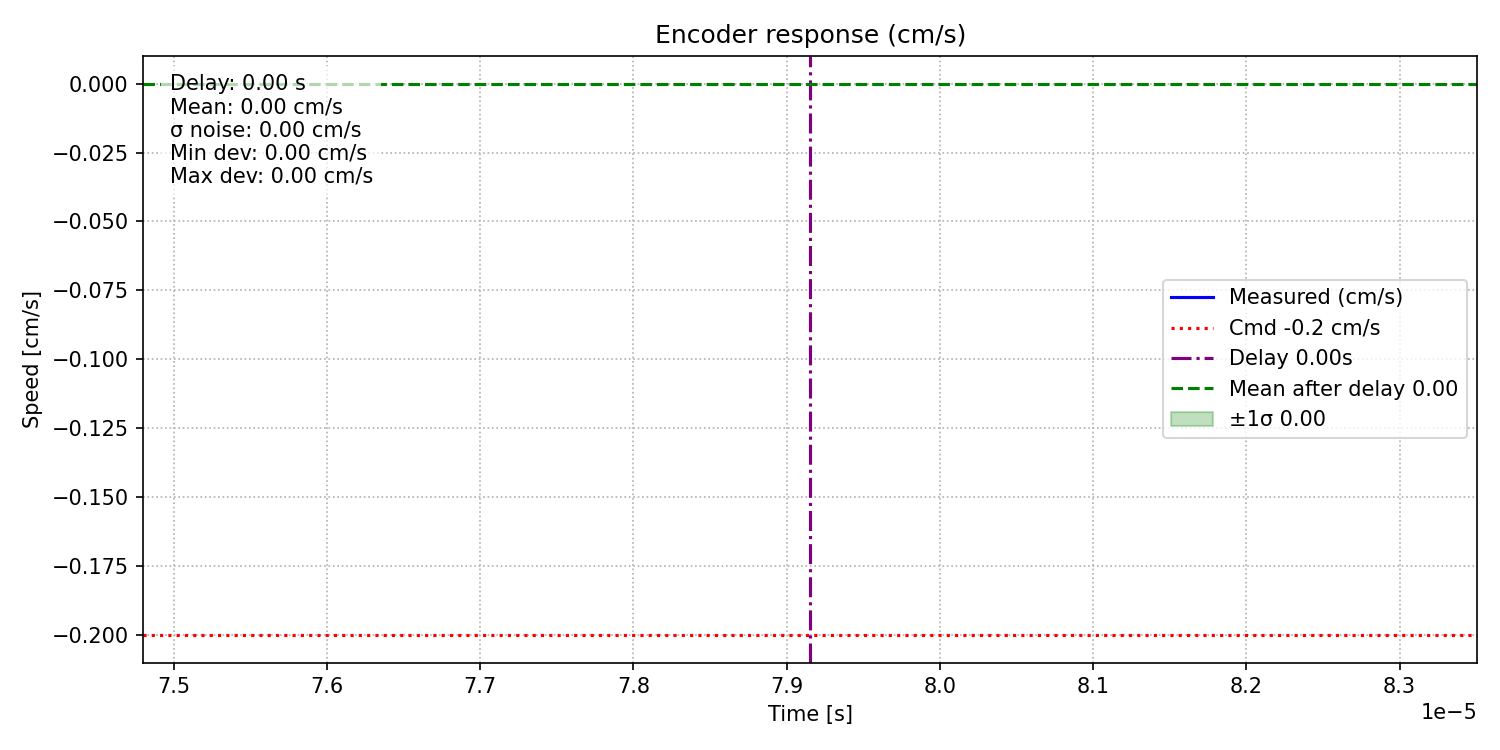
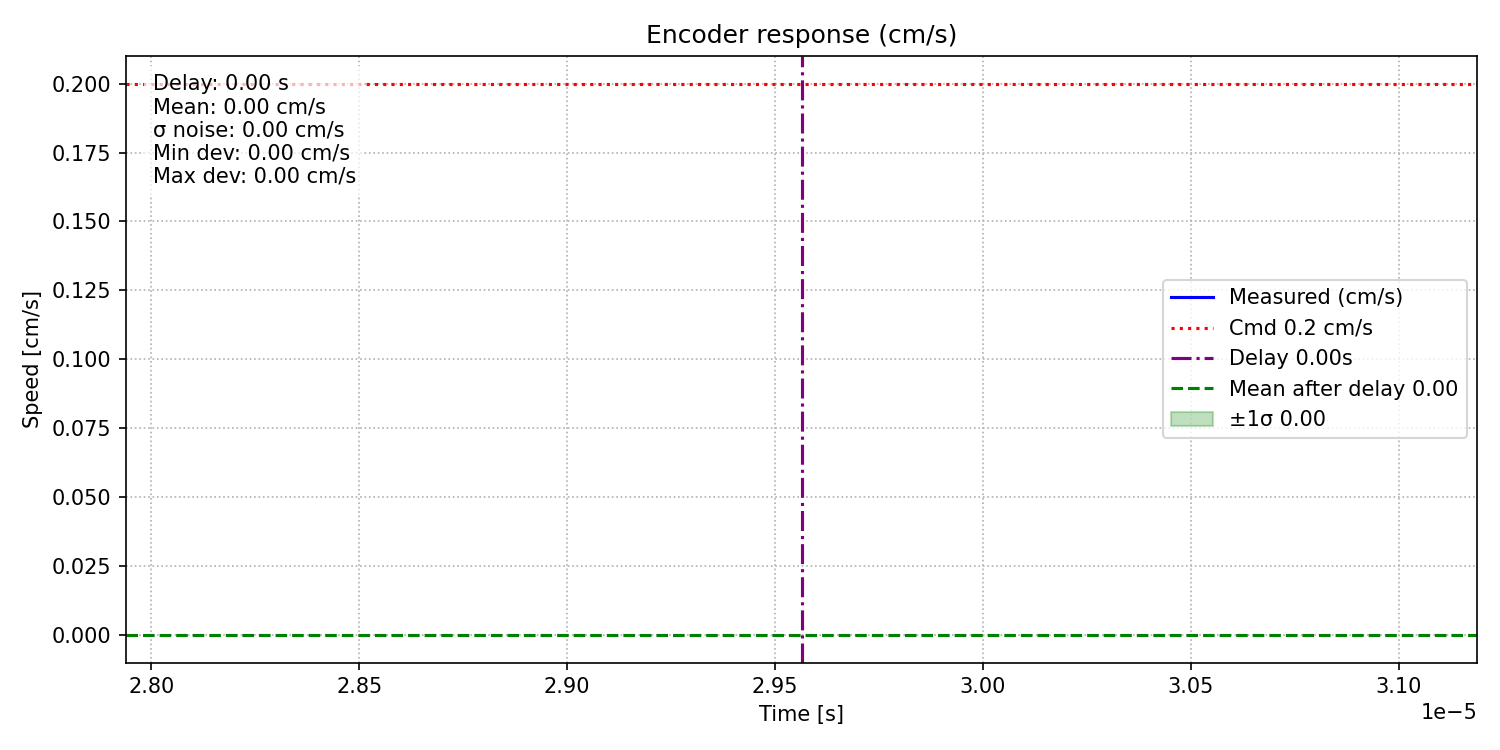
realsense calibration

diff --git a/Embedded_Platform/Embedded_2024/scripts/encoder_noise_test_pwm.py b/Embedded_Platform/Embedded_2024/scripts/encoder_noise_test_pwm.py
@@ -189,10 +189,10 @@ def save_plot(times: list[float], speeds: list[float], cmd_speed: float, delay: 
 
 def main() -> None:
     ap = argparse.ArgumentParser(description="Constant‑speed noise test with delay estimation (cm/s)")
-    ap.add_argument("--cmd", type=float, default=0, help="Commanded speed [cm/s]")
+    ap.add_argument("--cmd", type=float, default=20, help="Commanded speed [cm/s]")
     ap.add_argument("--pwm", type=float, default=-1, help="Commanded pwm")
     ap.add_argument("--dur", type=float, default=12, help="Duration [s]")
-    ap.add_argument("--steer", type=float, default=-10, help="Commanded steering in deg")
+    ap.add_argument("--steer", type=float, default=20, help="Commanded steering in deg")
     ap.add_argument("--csv", type=Path, help="Save raw data to CSV")
     ap.add_argument("--port", default="/dev/ttyACM0")
     ap.add_argument("--baud", type=int, default=115200)

diff --git a/src/utils/include/utils/constants.h b/src/utils/include/utils/constants.h
@@ -303,8 +303,8 @@ namespace VehicleConstants {
         322.97223,  // cx
         244.39398   // cy
     };
-    static constexpr std::array<double, 6> REALSENSE_TF = {-0.08255 - 0.0042, -0.032, 0.2615, 0, 3.75*M_PI/180.0, 0}; // x, y, z, roll, pitch, yaw
-    static constexpr std::array<double, 6> REALSENSE_TF_REAL = {-0.08255 - 0.0042, -0.032, 0.2615, 0, 3.75*M_PI/180.0, 0};
+    static constexpr std::array<double, 6> REALSENSE_TF = {-0.08255 - 0.0042, -0.032, 0.257, 0, 1.85*M_PI/180.0, 0}; // x, y, z, roll, pitch, yaw
+    static constexpr std::array<double, 6> REALSENSE_TF_REAL = {-0.08255 - 0.0042, -0.032, 0.257, 0, 1.85*M_PI/180.0, 0};
     // static constexpr std::array<double, 6> REALSENSE_TF = {-0.1, 0.05, 0.2, 0, 0.1, 0};
     static constexpr double CAM_TO_CAR_FRONT = CAR_LENGTH / 2 - REALSENSE_TF[0];
 }

diff --git a/Embedded_Platform/Embedded_2024/scripts/encoder_noise_test.py b/Embedded_Platform/Embedded_2024/scripts/encoder_noise_test.py
@@ -167,9 +167,9 @@ def save_plot(times: list[float], speeds: list[float], cmd_speed: float, delay: 
 
 def main() -> None:
     ap = argparse.ArgumentParser(description="Constant‑speed noise test with delay estimation (cm/s)")
-    ap.add_argument("--cmd", type=float, default=0.2, help="Commanded speed [cm/s]")
+    ap.add_argument("--cmd", type=float, default=0.245, help="Commanded speed [cm/s]")
     ap.add_argument("--steer", type=float, default=0, help="Steering angle [deg]")
-    ap.add_argument("--dur", type=float, default=10, help="Duration [s]")
+    ap.add_argument("--dur", type=float, default=30, help="Duration [s]")
     ap.add_argument("--csv", type=Path, help="Save raw data to CSV")
     ap.add_argument("--port", default="/dev/ttyACM0")
     ap.add_argument("--baud", type=int, default=115200)

diff --git a/Embedded_Platform/Embedded_2024/scripts/encoder_pwm_calibration.py b/Embedded_Platform/Embedded_2024/scripts/encoder_pwm_calibration.py
@@ -202,7 +202,7 @@ def save_plot(times: list[float], speeds: list[float], cmd_speed: float, delay: 
 
 def main() -> None:
     ap = argparse.ArgumentParser(description="Encoder constant‑command test with optional safe PWM mode and displacement logging.")
-    ap.add_argument("--cmd",  type=float, default=32, help="Commanded speed [cm/s]; ignored if --pwm provided.")
+    ap.add_argument("--cmd",  type=float, default=12, help="Commanded speed [cm/s]; ignored if --pwm provided.")
     ap.add_argument("--pwm",  type=float, default=-1, help=f"Duty cycle (0‑1). Valid range {PWM_MIN}-{PWM_MAX}. Use -1 to disable PWM mode.")
     ap.add_argument("--steer", type=float, default=0, help="Steering angle [deg]")
     ap.add_argument("--pwm_steer", type=float, default=-1, help="Steering angle [deg]")

diff --git a/Embedded_Platform/Embedded_2024/include/drivers/speedingmotor.hpp b/Embedded_Platform/Embedded_2024/include/drivers/speedingmotor.hpp
@@ -54,7 +54,7 @@ namespace drivers
             ~CSpeedingMotor();
             void PWMSpeed(float f_PWM);
             // Calculate Speed from Equation
-            void CalculateSpeed(float f_speed);
+            void CalculateSpeed(float target);
             // Return current speed
             float getSpeed();
             virtual void _run();

diff --git a/Embedded_Platform/Embedded_2024/source/main.cpp b/Embedded_Platform/Embedded_2024/source/main.cpp
@@ -20,7 +20,7 @@ BufferedSerial g_rpi(USBTX, USBRX, 115200);
 
 #define PIN_INA  D7
 #define PIN_INB  D5
-#define PIN_PWM  PA_8
+#define PIN_PWM  D10
 #define SPEEDING_DRIVER_PWM_PIN D3
 #define STEERING_DRIVER_PWM_PIN D4
 
